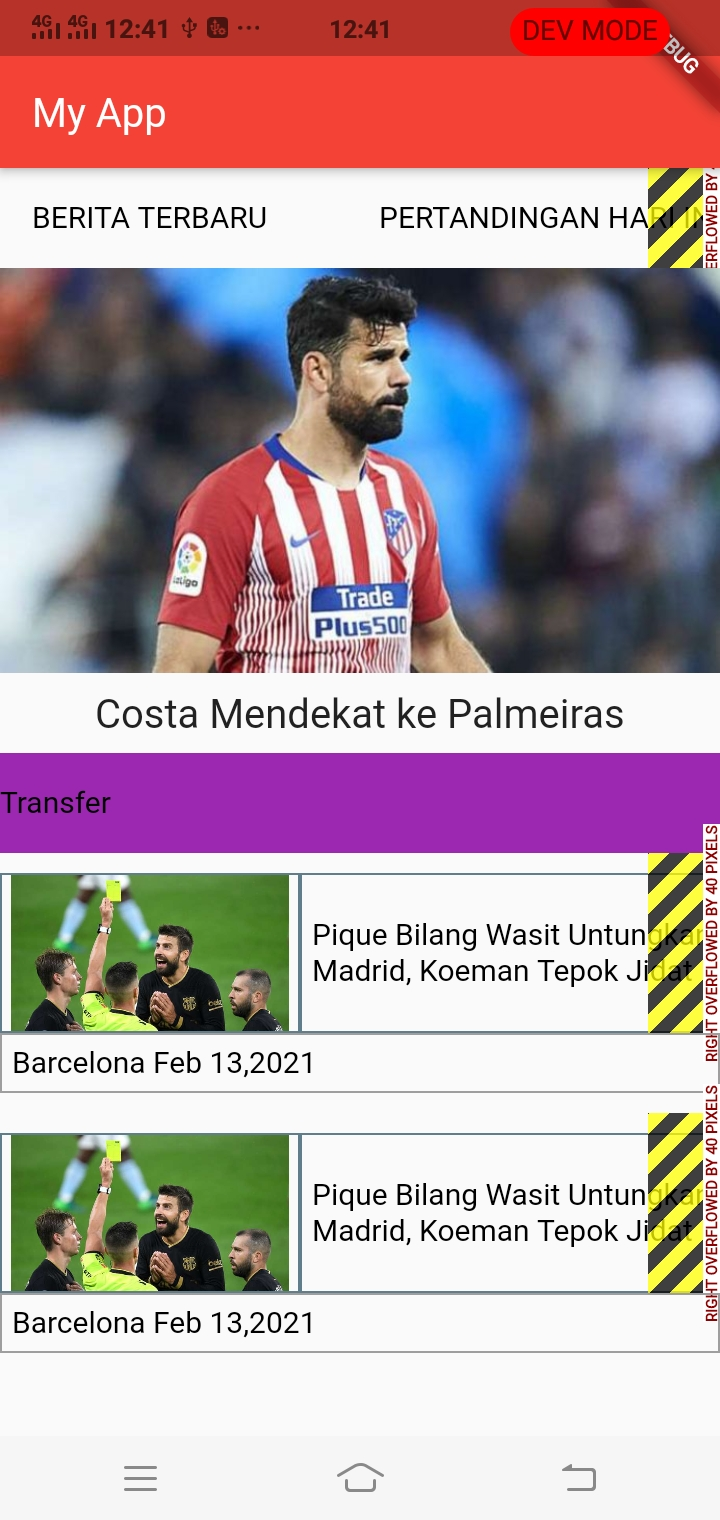
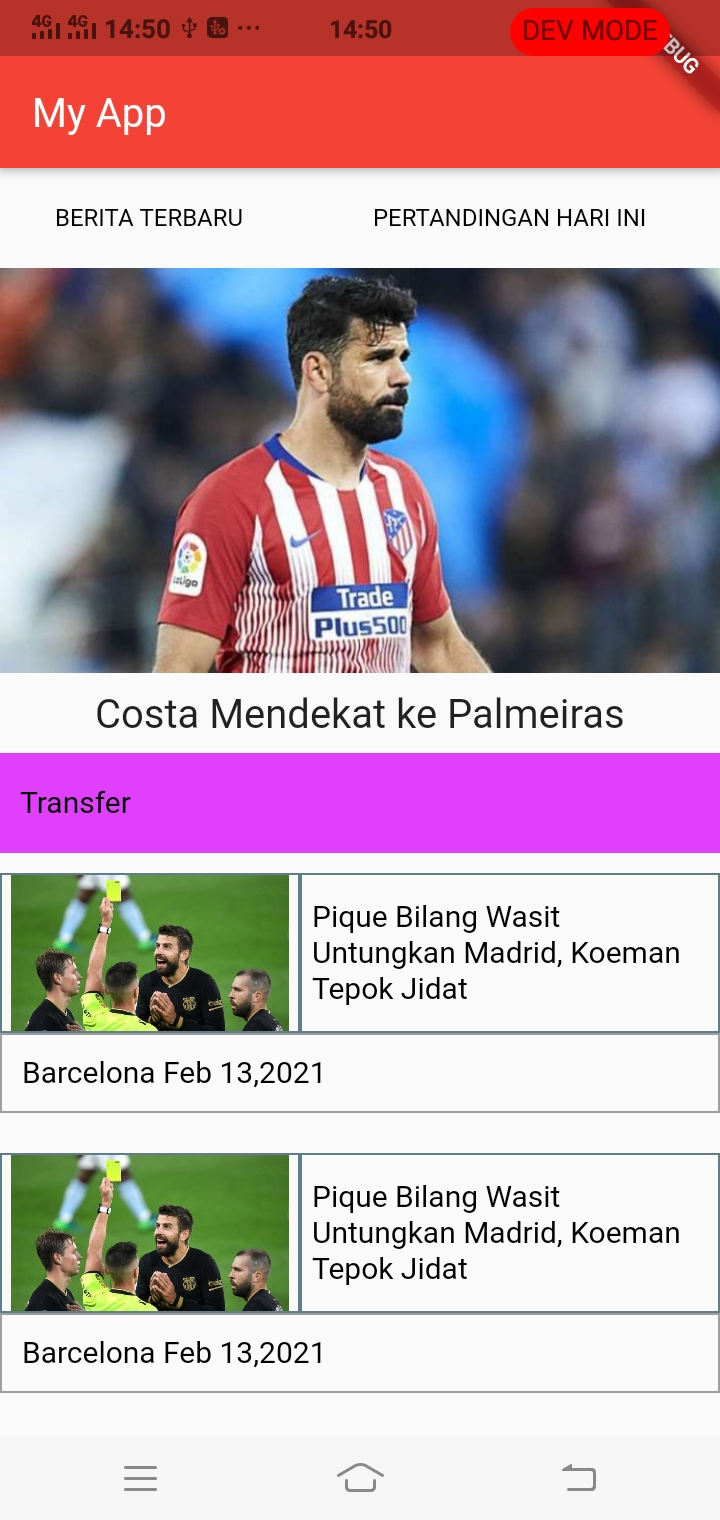
Edit width size

diff --git a/lib/main.dart b/lib/main.dart
@@ -18,13 +18,13 @@ class MyApp extends StatelessWidget{
             children: [
               Container(
                 alignment:Alignment.center,
-                child: Text("BERITA TERBARU", style: TextStyle(fontSize:15,color: Colors.black)),
+                child: Text("BERITA TERBARU", style: TextStyle(fontSize:12,color: Colors.black)),
                 height: 50.0, width: 150.0,
               ),
               Container(
                 alignment:Alignment.center,
-                child: Text("PERTANDINGAN HARI INI", style: TextStyle(fontSize:15,color: Colors.black)),
-                height: 50.0, width: 250.0,
+                child: Text("PERTANDINGAN HARI INI", style: TextStyle(fontSize:12,color: Colors.black)),
+                height: 50.0, width: 210.0,
               ),
             ]
           ),
@@ -37,11 +37,12 @@ class MyApp extends StatelessWidget{
             height: 40,
           ),
           Container(
-            color: Colors.purple,
+            color: Colors.purpleAccent,
             alignment:Alignment.centerLeft,
             child: Text("Transfer", style: TextStyle(fontSize:15,color:
             Colors.black)),
             height: 50.0,
+            padding: const EdgeInsets.all(10.0),  
           ),
           Row(
             children: [
@@ -68,7 +69,7 @@ class MyApp extends StatelessWidget{
                   width: 1,
                 ),
                 ),
-                height: 80.0, width: 250.0,
+                height: 80.0, width: 210.0,
                 margin: const EdgeInsets.only(top: 10),
                 padding: const EdgeInsets.all(5.0),      
               ),
@@ -84,9 +85,9 @@ class MyApp extends StatelessWidget{
               width: 1,
             ),
             ), 
-            height: 30.0,
+            height: 40.0,
             margin: const EdgeInsets.only(bottom:10,), 
-            padding: const EdgeInsets.all(5.0),      
+            padding: const EdgeInsets.all(10.0),      
           ),
 
           //222222222222222222222
@@ -115,7 +116,7 @@ class MyApp extends StatelessWidget{
                   width: 1,
                 ),
                 ),
-                height: 80.0, width: 250.0,
+                height: 80.0, width: 210.0,
                 margin: const EdgeInsets.only(top: 10),
                 padding: const EdgeInsets.all(5.0),      
               ),
@@ -131,9 +132,9 @@ class MyApp extends StatelessWidget{
               width: 1,
             ),
             ), 
-            height: 30.0,
+            height: 40.0,
             margin: const EdgeInsets.only(bottom:10,), 
-            padding: const EdgeInsets.all(5.0),      
+            padding: const EdgeInsets.all(10.0),      
           ),
         ]
         ),
